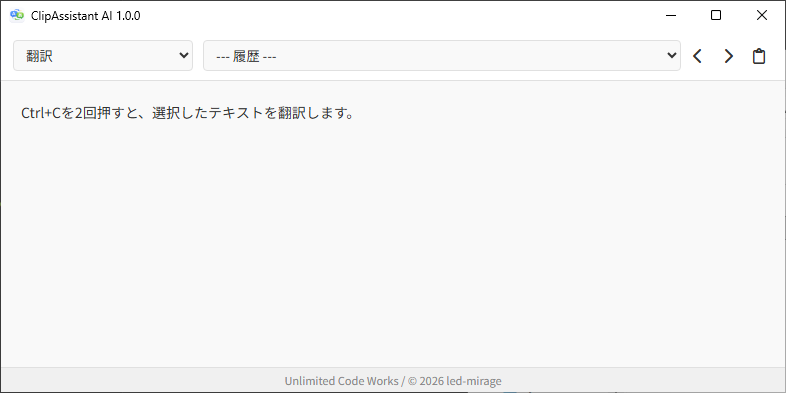
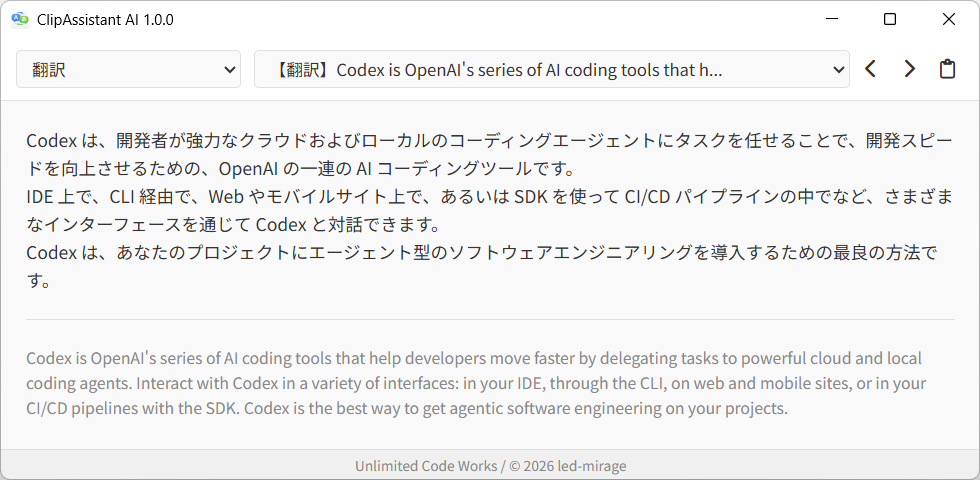
スクリーンショットの変更

diff --git a/README.md b/README.md
@@ -12,6 +12,8 @@
 
 <img src="assets/screenshot.png" width="500">
 
+任意の場所でテキストを選択して **Ctrl+C** を2回押すと、クリップボードの内容をAIが即座に処理し、結果を表示します。
+
 ## 🚀 特徴
 
 - **ダブルコピー・トリガー:** Ctrl + C を素早く2回押すだけで、クリップボードのテキストをAIが処理。
